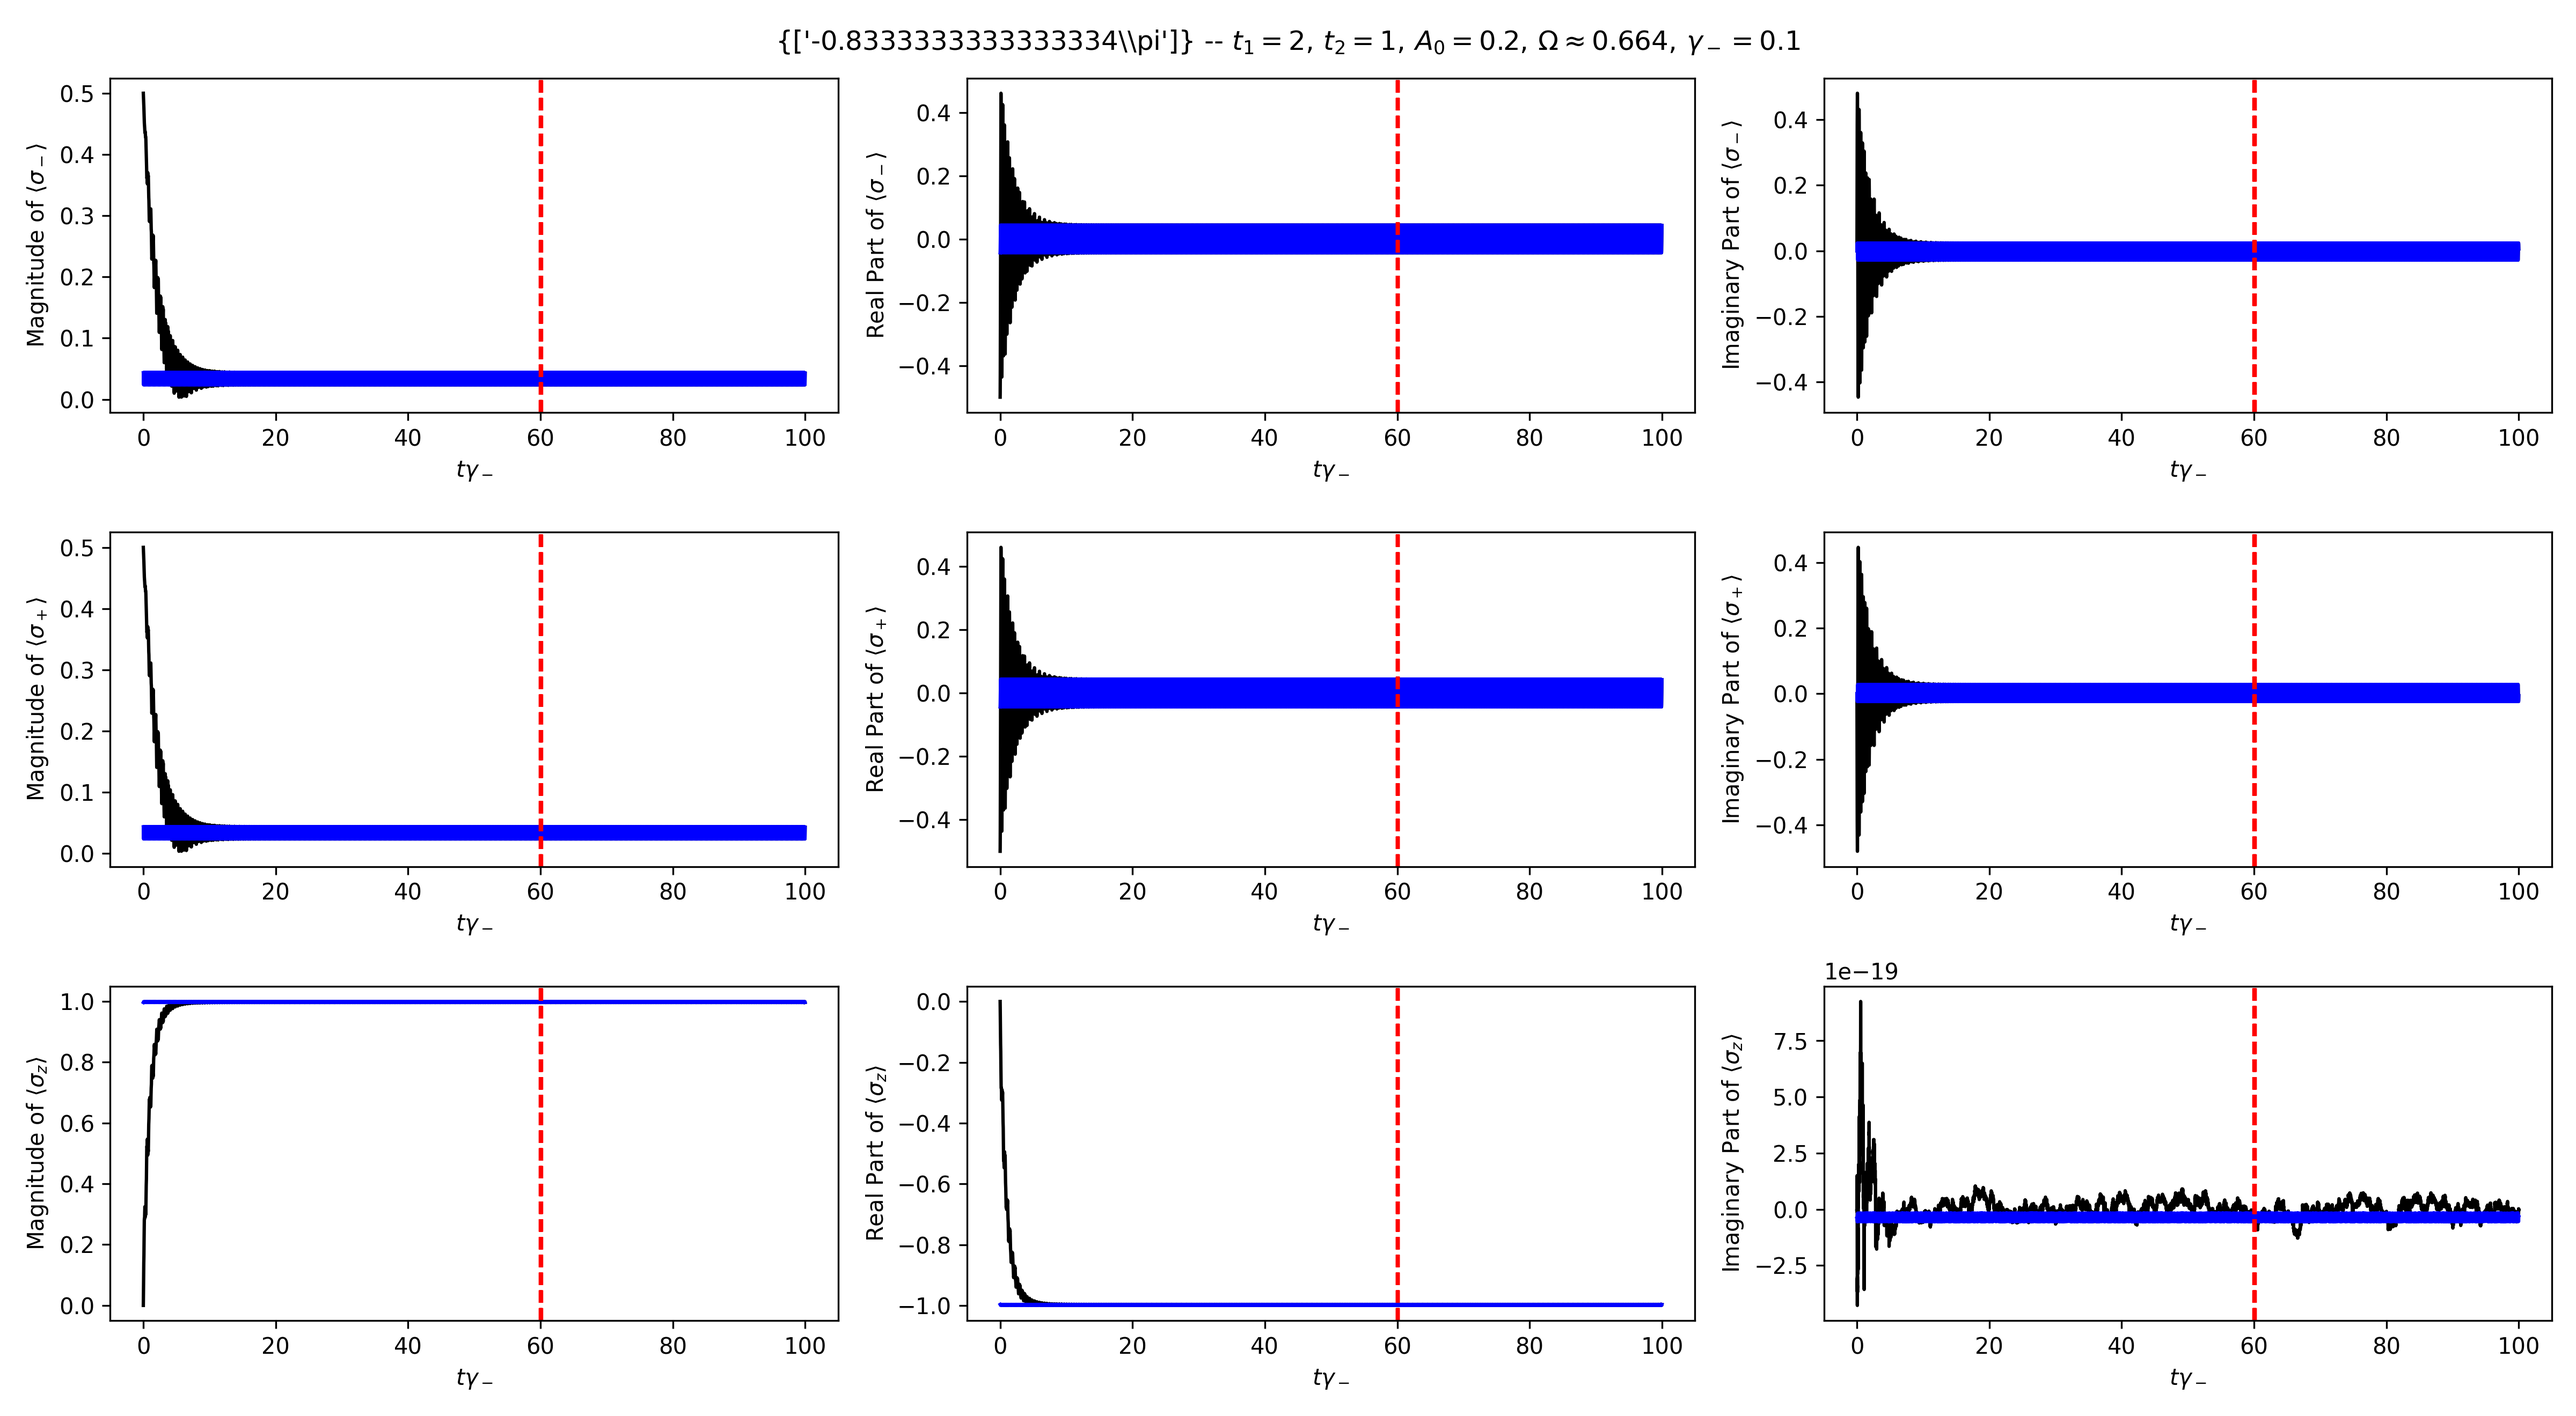
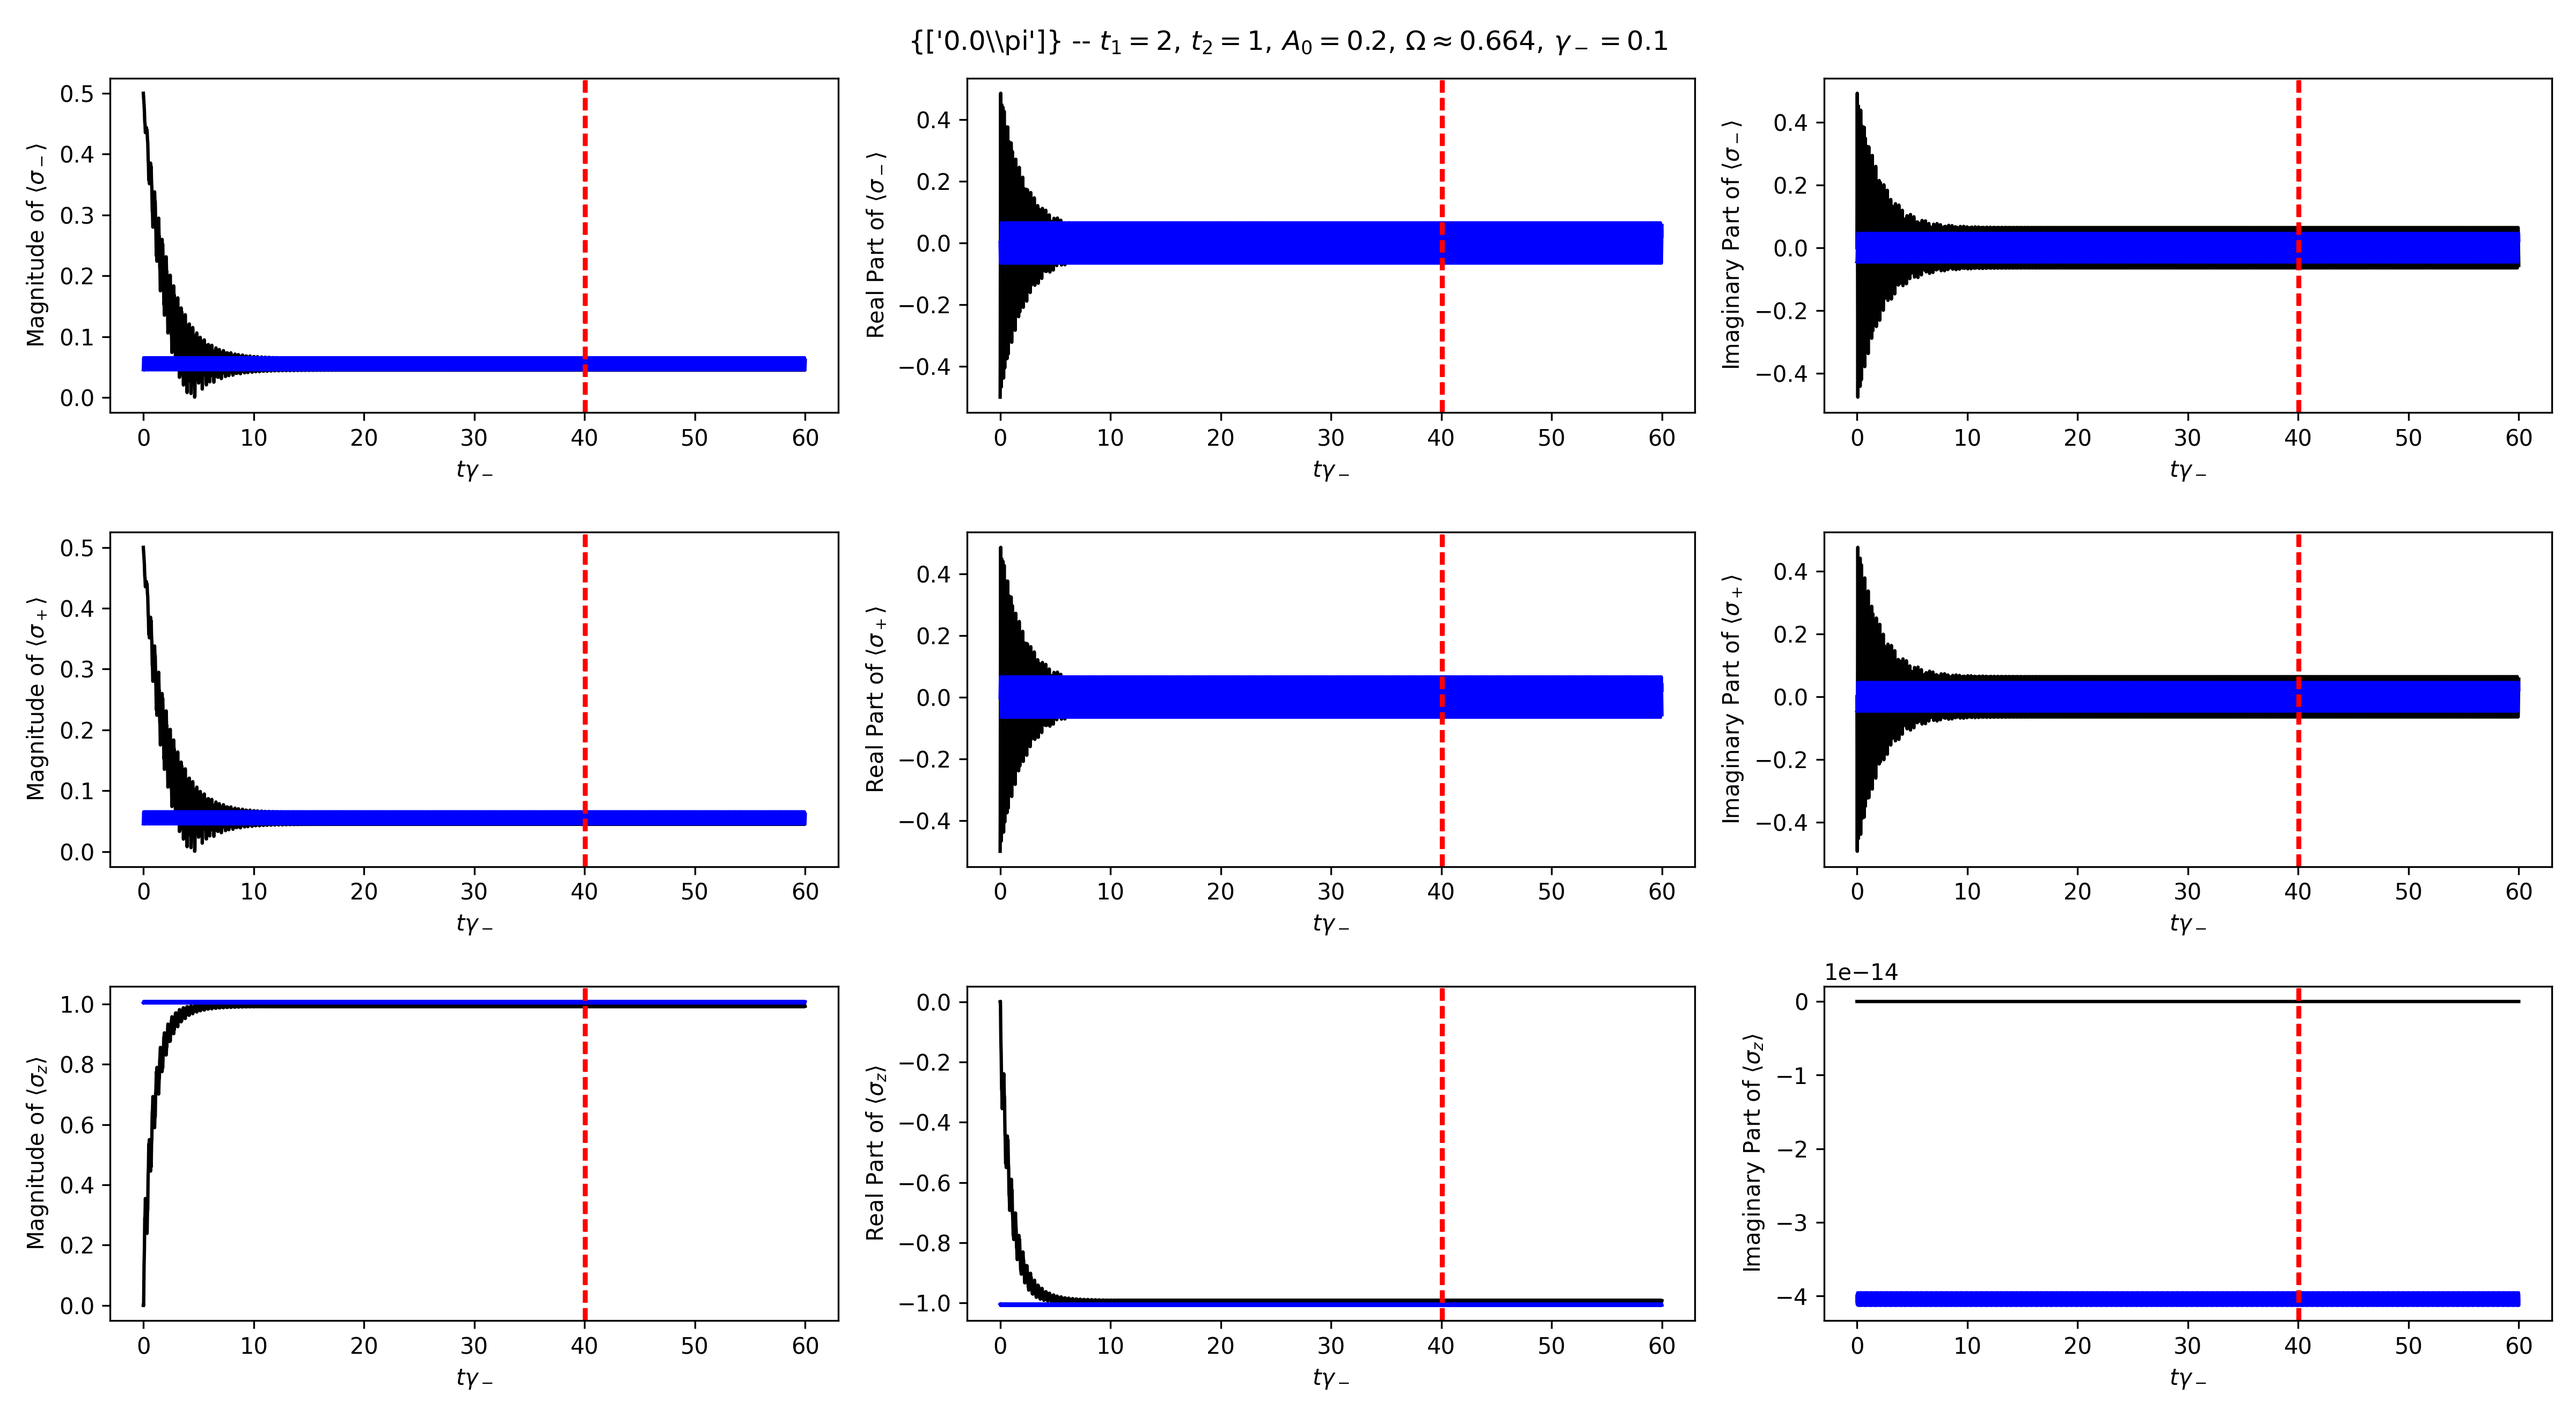
Realised that I had been looking at plots for the wrong saved instance, so it turns out the Fourier series is actually wrong. This is at least somewhata a good thing, since it means that I don't know if this will solve the problem or not yet. Furthermore, I fixed a bug in the Fourier code, and made 

diff --git a/SSHModel/SSH.py b/SSHModel/SSH.py
@@ -251,7 +251,7 @@ class SSH:
             The Fourier object containing the series.
         """
 
-        M = 2 * self.__maxN + 1
+        M = 2 * self.__params.maxN + 1
         theta = self.__params.k - self.__params.phiK
         vZCoeffs = np.zeros((M), dtype=complex)
 
@@ -274,7 +274,7 @@ class SSH:
 
     @SSHProfiler.profile
     def __CalculateVpmFourier(self) -> Fourier:
-        """
+        r"""
         Calculates the Fourier series of the $v_\pm$ term in the ODE.
 
         Returns
@@ -283,7 +283,7 @@ class SSH:
             The Fourier object containing the series.
         """
 
-        M = 2 * self.__maxN + 1
+        M = 2 * self.__params.maxN + 1
         theta = self.__params.k - self.__params.phiK
         vPmCoeffs = np.zeros((M), dtype=complex)
 
@@ -306,7 +306,7 @@ class SSH:
 
     @SSHProfiler.profile
     def __CreateFourierMatrix(self, vZConv: np.ndarray[complex], vPmConv: np.ndarray[complex]) -> np.ndarray[complex]:
-        """
+        r"""
         Creates the matrix that solves the ODE system $\mathcal{M} x = b$.
         Solving for $x$ finds the analytical coefficients for the Fourier coefficients of the
         singel time-correlations in the steady state.
@@ -521,19 +521,18 @@ class SSH:
         # Calculates the analytically derived Fourier series for each
         # of the coefficients of the current operator, when its expectation is written out
         # in terms of the pauli matrices.
-        n = Fourier.DetermineMaxN(self.__axes.tauAxisSec, self.__params.drivingFreq)
-        coefficients = np.zeros((3, 2 * n + 1), dtype=complex)
+        coefficients = np.zeros((3, 2 * self.__params.maxN + 1), dtype=complex) 
 
         # Defines a useful constant.
         theta = self.__params.k - self.__params.phiK
 
         # Calculates each of the coefficients for the fourier series.
-        for i in np.arange(-n, n + 1):
+        for i in np.arange(-self.__params.maxN, self.__params.maxN + 1):
             # Coefficient for $j_-(t)$.
-            coefficients[0, i + n] = -0.5j * self.__params.t2 * special.jv(i, self.__params.drivingAmplitude) * (float(-1)**i * np.exp(1j * theta) + np.exp(-1j * theta))
+            coefficients[0, i + self.__params.maxN] = -0.5j * self.__params.t2 * special.jv(i, self.__params.drivingAmplitude) * (float(-1)**i * np.exp(1j * theta) + np.exp(-1j * theta))
             
             # Coefficient for $j_z(t)$.
-            coefficients[2, i + n] = 0.5j * self.__params.t2 * special.jv(i, self.__params.drivingAmplitude) * (float(-1)**i * np.exp(1j * theta) - np.exp(-1j * theta))
+            coefficients[2, i + self.__params.maxN] = 0.5j * self.__params.t2 * special.jv(i, self.__params.drivingAmplitude) * (float(-1)**i * np.exp(1j * theta) - np.exp(-1j * theta))
 
         # Using $j_+(t) = -j_-(t)$, we can calculate the remaining coefficients.
         coefficients[1, :] = -coefficients[0, :]

diff --git a/1d-ssh-plotting.py b/1d-ssh-plotting.py
@@ -1,7 +1,7 @@
 import numpy as np
 from SSHModel import *
 
-sim = SSHSimulation.Load("simulation-instances/numK: 25, numT: 10.pkl.gz")
+sim = SSHSimulation.Load("simulation-instances/numK: 5, numT: 3.pkl.gz")
 vis = SSHVisualiser(sim, "plots/numK: 25, numT: 10")
 
 k = sim.momentums[2]
@@ -53,10 +53,10 @@ vis.PlotSingleTimeCorrelations(k,
 
 # # $\int dt\, \langle j(t) j (t + \tau) \rangle - \langle j(t) \rangle \langle j(t + \tau) \rangle$
 
-# vis.PlotIntegratedDoubleTimeCurrent(format='connected',
-#                                     saveFigs = True,
-#                                     show = True
-#                                     )
+vis.PlotIntegratedDoubleTimeCurrent(format='connected',
+                                    saveFigs = True,
+                                    show = True
+                                    )
 
 # vis.PlotConnectedCurrentTerms(saveFigs = True,
 #                               show = True,

diff --git a/SSHModel/data/Fourier.py b/SSHModel/data/Fourier.py
@@ -239,12 +239,14 @@ class Fourier:
         if n2 > n1:
             newCoeffs = second[-n1:n1 + 1]
         # If the second series is too small, pad it with zeros to match the first.
-        if n2 < n1:
+        elif n2 < n1:
             # Determines the padding on each side of the coefficient array.
             padding = np.zeros((n1 - n2), dtype=complex)
             newCoeffs = np.concat([padding,
                                   second.coeffs,
                                   padding])
+        else:
+            newCoeffs = second.coeffs
 
         # Now that the second Fourier is the same size as the first, calculate the convolution.
         convolvedCoeffs = first.BuildConvolutionMatrix() @ newCoeffs

diff --git a/1d-ssh-model.py b/1d-ssh-model.py
@@ -21,7 +21,7 @@ if __name__ == "__main__":
         decayConstant = 0.1,
         drivingAmplitude = 0.2, # 0.2
         drivingFreq = 2 / 3.01,
-        maxN = 30
+        maxN = 11
     )
 
     sim = SSHSimulation(params)
